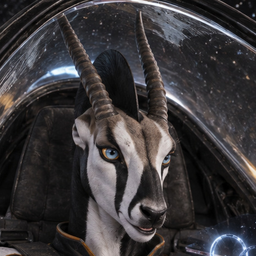
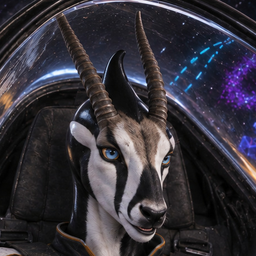
feat(pilots): Flux's orca painted from his own likeness and the game's frames
The third run of the painter that takes pictures (GPT Image 2.6 through Weave, 11 credits, approved on a
card as one of six; it ran on the first try once the workspace was on a paid plan). The patch's region is
the whole frame, because the head itself changes:

- the fin between the horns is the fin of Flux's own likeness, a hooked blade of wet black skin; the head
  behind the face and the neck are an orca's; the face, the horns, the clothes and the hands are the
  fifth painting's, in the same place
- the display is a ball of light with the course inside it, and outside the glass the course has the
  game's own bricks, needles, crystals and net
- one thing the ask said to keep was changed: the white eye patch lies where the ear was

Read blind from the close-up before it was shown, a stranger named oryx and orca; the fifth painting's
crest had been taken for a mane. The record's swap now says what the picture shows, the avatar is re-cut
from the same box (ids and guids unchanged), and patches/Flux.json holds the words as they were sent.

No C# changed, so the reference compile was not run.
Affects: Shombith's colour grade record (Docs/VesselModels/colour_grade.json: the avatar's own row only).

Claude-Session: https://claude.ai/code/session_01WQBAi6RtMp5ZQ2VagCFDrS

diff --git a/Tools/Build/pilot_art/scenes/Flux.py b/Tools/Build/pilot_art/scenes/Flux.py
@@ -9,10 +9,18 @@ fractions, the eyes at mid-height, a seat laid back). The fifth names the whole 
 picture, rim to rim, and the figure "from the tips of the horns down to the gloved hands": the horns came whole, with
 glass above them (LESSONS 77).
 
-What the fifth still owes is the orca: a blind reader took the matte crest for a mane (LESSONS 80). The patch below
+What the fifth still owed was the orca: a blind reader took the matte crest for a mane (LESSONS 80). The patch below
 asks a painter that takes pictures for the fin of Flux's own likeness, an orca's skin and eye patch behind the face,
 a display with depth, and the course outside from real frames of the game. Its region is the whole frame, because the
-head itself changes. It was quoted at 11 credits and refused by the painter's plan: prepared, not run (LESSONS 85)."""
+head itself changes. It was quoted at 11 credits and refused twice by the painter's plan (LESSONS 85); Garrett moved
+the workspace to a paid plan on 2026-11-12 and it ran on the first try.
+
+The answer is the scene (LESSONS 87). The fin is a hooked blade of wet black skin, the head behind the face and the
+neck are an orca's, and the face, the horns, the clothes and the hands are the fifth painting's, in the same place.
+The display is a ball of light with the course inside it, and the course outside has the game's bricks, needles,
+crystals and net. One thing the ask said to keep was changed: "swept back toward the ear" put the white patch where
+the ear was, and no ear shows. Read blind from the close-up, a stranger named oryx and orca (the fifth painting's
+crest had been a mane to one) and took the white oval for a small ear."""
 SCENE = dict(
     treatment="Onboard camera under a shut canopy, the course streaming behind",
     shot=("An onboard photograph from a small camera fixed at the nose end of the long cockpit, looking back down "
@@ -26,10 +34,14 @@ SCENE = dict(
     side="right",
     chart=("volume", "race"),
     source="profession: a racer mid-heat, just through a ring, checking the display for the two behind",
-    swap=((", rising behind one shoulder", ""),),
+    swap=((", rising behind one shoulder", ""),
+          ("a tall glossy black orca dorsal fin rising from the crown like a blade",
+           "a glossy black orca dorsal fin at the crown between the horns, half their height, hooked back at its "
+           "tip"),
+          ("a crisp white orca eye patch swept back from behind each eye",
+           "a smooth white orca eye patch on each side of the head where an ear would be")),
     carry="it lies along the seat behind the hips, below the cockpit's rim, and none of it is in this picture",
-    seen=("the orca's black fin stands at the crown between the two horns, half their height",
-          "the irises are pale ice blue, and the amber is only a hair-thin line round each"),
+    seen=("the irises are pale ice blue, and the amber is only a hair-thin line round each",),
     doing=("Flux is racing and has just come through a ring. Flux half lies in the seat with the head against the "
            "headrest, both gloved hands on the control stick and the harness buckled tight across the chest, and "
            "looks at the small display that floats over the panel ahead, the long face three-quarters to the "
